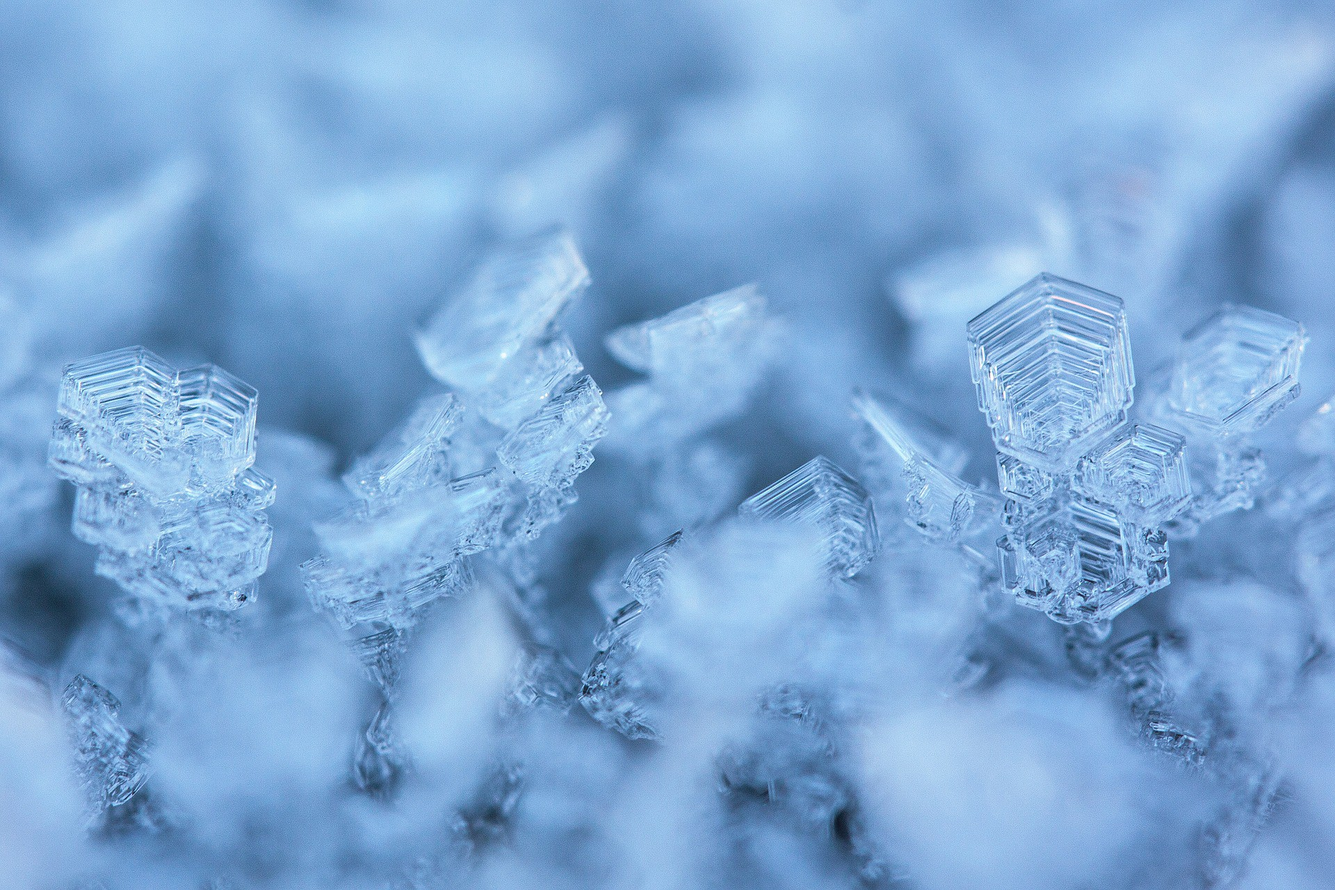
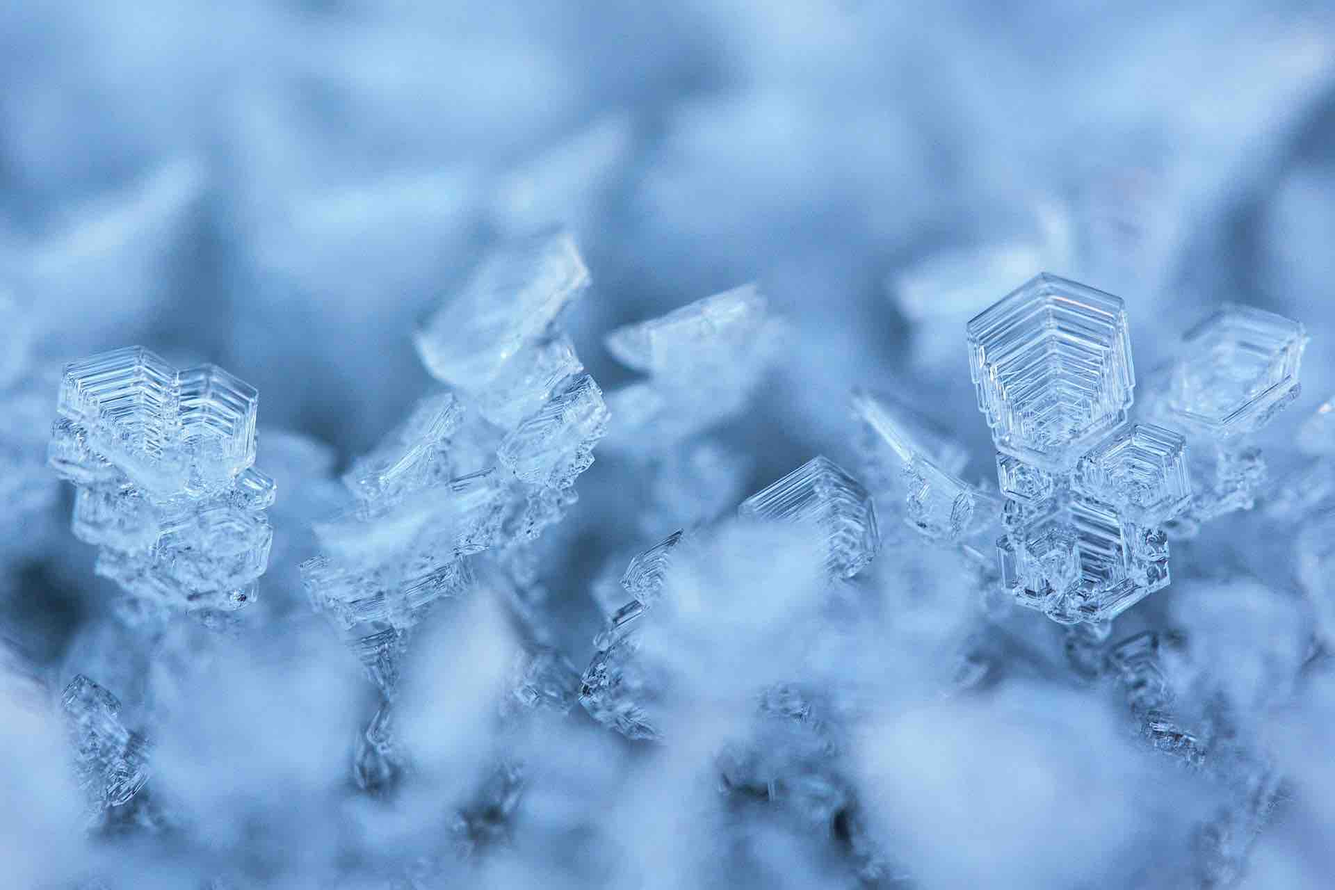
chore: compress the big images

diff --git a/plugins/retrieveSrcset.js b/plugins/retrieveSrcset.js
@@ -30,7 +30,7 @@ async function resize(filename, width, format) {
     await access('_site' + out)
   } catch {
     try {
-      await sharp('_site' + filename, { failOnError: false })
+      await sharp('_site' + filename)
         .resize(width)
         [format]({
           quality: qualityMap[format] || qualityMap.default,
